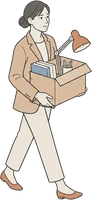
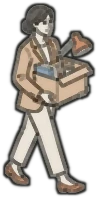
PT-19: фигурки людей и роботов крупнее, с утолщёнными линиями и контуром

diff --git a/src/view/hubView.ts b/src/view/hubView.ts
@@ -15,7 +15,7 @@ const DOT_SPEED = 560; // px per second along a connector
 const DOTS = 80;
 const LAWN = 0xbcd1ca;
 const ROAD = 0xe4e0d3;
-const PICKET_H = 66; // a figure with a placard, px
+const PICKET_H = 86; // a figure with a placard, px
 const PICKETS = ['node_picket1', 'node_picket2', 'node_picket3'];
 const RESTS = ['node_rest_bench', 'node_rest_chess', 'node_rest_hammock', 'node_rest_picnic', 'node_rest_easel', 'node_rest_fishing'];
 const MASCOT = 'mascot';
@@ -246,7 +246,7 @@ export class HubView {
   private picket(lot: Lot, place: { x: number; y: number }, want: number): void {
     while (lot.pickets.length < want) {
       const n = lot.pickets.length;
-      const img = this.scene.add.image(place.x - 62 - n * 24, place.y + 6 + n * 5, PICKETS[this.rng.int(0, PICKETS.length - 1)]).setOrigin(0.5, 1);
+      const img = this.scene.add.image(place.x - 60 - n * 27, place.y + 8 + n * 5, PICKETS[this.rng.int(0, PICKETS.length - 1)]).setOrigin(0.5, 1);
       const scale = PICKET_H / img.height;
       this.root.add(img.setScale(scale).setAlpha(0));
       this.scene.tweens.add({ targets: img, alpha: 1, scale: { from: scale * 0.7, to: scale }, delay: 500 + n * 250, duration: 260, ease: 'Back.Out' });
@@ -262,8 +262,8 @@ export class HubView {
   private guard(lot: Lot, place: { x: number; y: number }, want: number): void {
     while (lot.dogs.length < want) {
       const n = lot.dogs.length;
-      const img = this.scene.add.image(place.x + 60 + n * 20, place.y + 8 + n * 5, 'node_robodog').setOrigin(0.5, 1).setFlipX(true);
-      const scale = 42 / img.height;
+      const img = this.scene.add.image(place.x + 62 + n * 26, place.y + 9 + n * 5, 'node_robodog').setOrigin(0.5, 1).setFlipX(true);
+      const scale = 54 / img.height;
       this.root.add(img.setScale(scale).setAlpha(0));
       this.scene.tweens.add({ targets: img, alpha: 1, delay: 900, duration: 250 });
       lot.dogs.push(img);

diff --git a/src/view/walkers.ts b/src/view/walkers.ts
@@ -8,9 +8,9 @@ export type WalkerKind = 'person' | 'android' | 'robodog';
 
 /** the pictures a kind is drawn with, its height on the screen and its speed, px per second */
 const LOOK: Record<WalkerKind, { keys: readonly string[]; h: number; speed: number }> = {
-  person: { keys: ['node_person1', 'node_person2', 'node_person3'], h: 46, speed: 80 },
-  android: { keys: ['node_android'], h: 58, speed: 110 },
-  robodog: { keys: ['node_robodog'], h: 42, speed: 170 },
+  person: { keys: ['node_person1', 'node_person2', 'node_person3'], h: 62, speed: 80 },
+  android: { keys: ['node_android'], h: 78, speed: 110 },
+  robodog: { keys: ['node_robodog'], h: 58, speed: 170 },
 };
 const POOL = 36;
 

diff --git a/src/data/layout/hubs.ts b/src/data/layout/hubs.ts
@@ -124,15 +124,15 @@ export const HUBS: Record<number, HubLayout> = {
     roads: true,
     park: {
       slots: [
-        [100, 662],
-        [270, 662],
-        [440, 662],
-        [185, 754],
-        [355, 754],
-        [520, 754],
+        [95, 672],
+        [265, 672],
+        [435, 672],
+        [180, 774],
+        [350, 774],
+        [520, 774],
       ],
-      h: 84,
-      label: { x: 270, y: 756 },
+      h: 100,
+      label: { x: 270, y: 776 },
     },
     dive: true,
   },

diff --git a/src/game/GameScene.ts b/src/game/GameScene.ts
@@ -1641,7 +1641,7 @@ export class GameScene extends Phaser.Scene {
     }
     // a placard of the picket, read out above the people at the door
     const at = this.slogan && HUBS[this.stage]?.lots[this.slogan.at];
-    if (this.slogan && at) tags.push({ x: at.x - 74, y: at.y - 96, mid: true, say: true, html: this.slogan.text });
+    if (this.slogan && at) tags.push({ x: at.x - 74, y: at.y - 118, mid: true, say: true, html: this.slogan.text });
     return tags;
   }
 

diff --git a/.studioigor/ASSETS.md b/.studioigor/ASSETS.md
@@ -27,6 +27,7 @@
 | A019 ND_Street | узлы | улица: супермаркет, кофейня, парикмахерская, стройка, такси, пиццерия с мопедами, ферма, поликлиника, школа, завод роботов | public/assets/img/nodes/*.webp, 10 шт | генерация (Codex), листы street_a…d | final |
 | A020 CH_Robots | персонажи | андроид и робособака: светлый корпус, голова — коралловый квадрат с двумя глазами (свой знак Клода) | android.webp, robodog.webp | генерация (Codex), лист street_d | final |
 | A021 CH_People | персонажи | люди без работы: три пикетчика с пустыми плакатами, шесть групп отдыхающих в парке (скамейка, шахматы, гамак, пикник, мольберт, рыбалка) | picket1–3.webp, rest_*.webp | генерация (Codex), листы street_e…g | final |
+| A022 CH_Bold | персонажи | фигурки людей и роботов для экрана: копии в 3 высоты показа, линии утолщены, тёмный контур по силуэту (PT-19: «не разглядеть»); исходники — art/gen/nodes/thin/ | person*, picket*, android, robodog, rest_* | обработка Pillow (scratchpad/bold_figures.py) | final |
 
 ## Strategy by category
 | category | source (pack / Blender / procedural / generation / user) | why | status |
